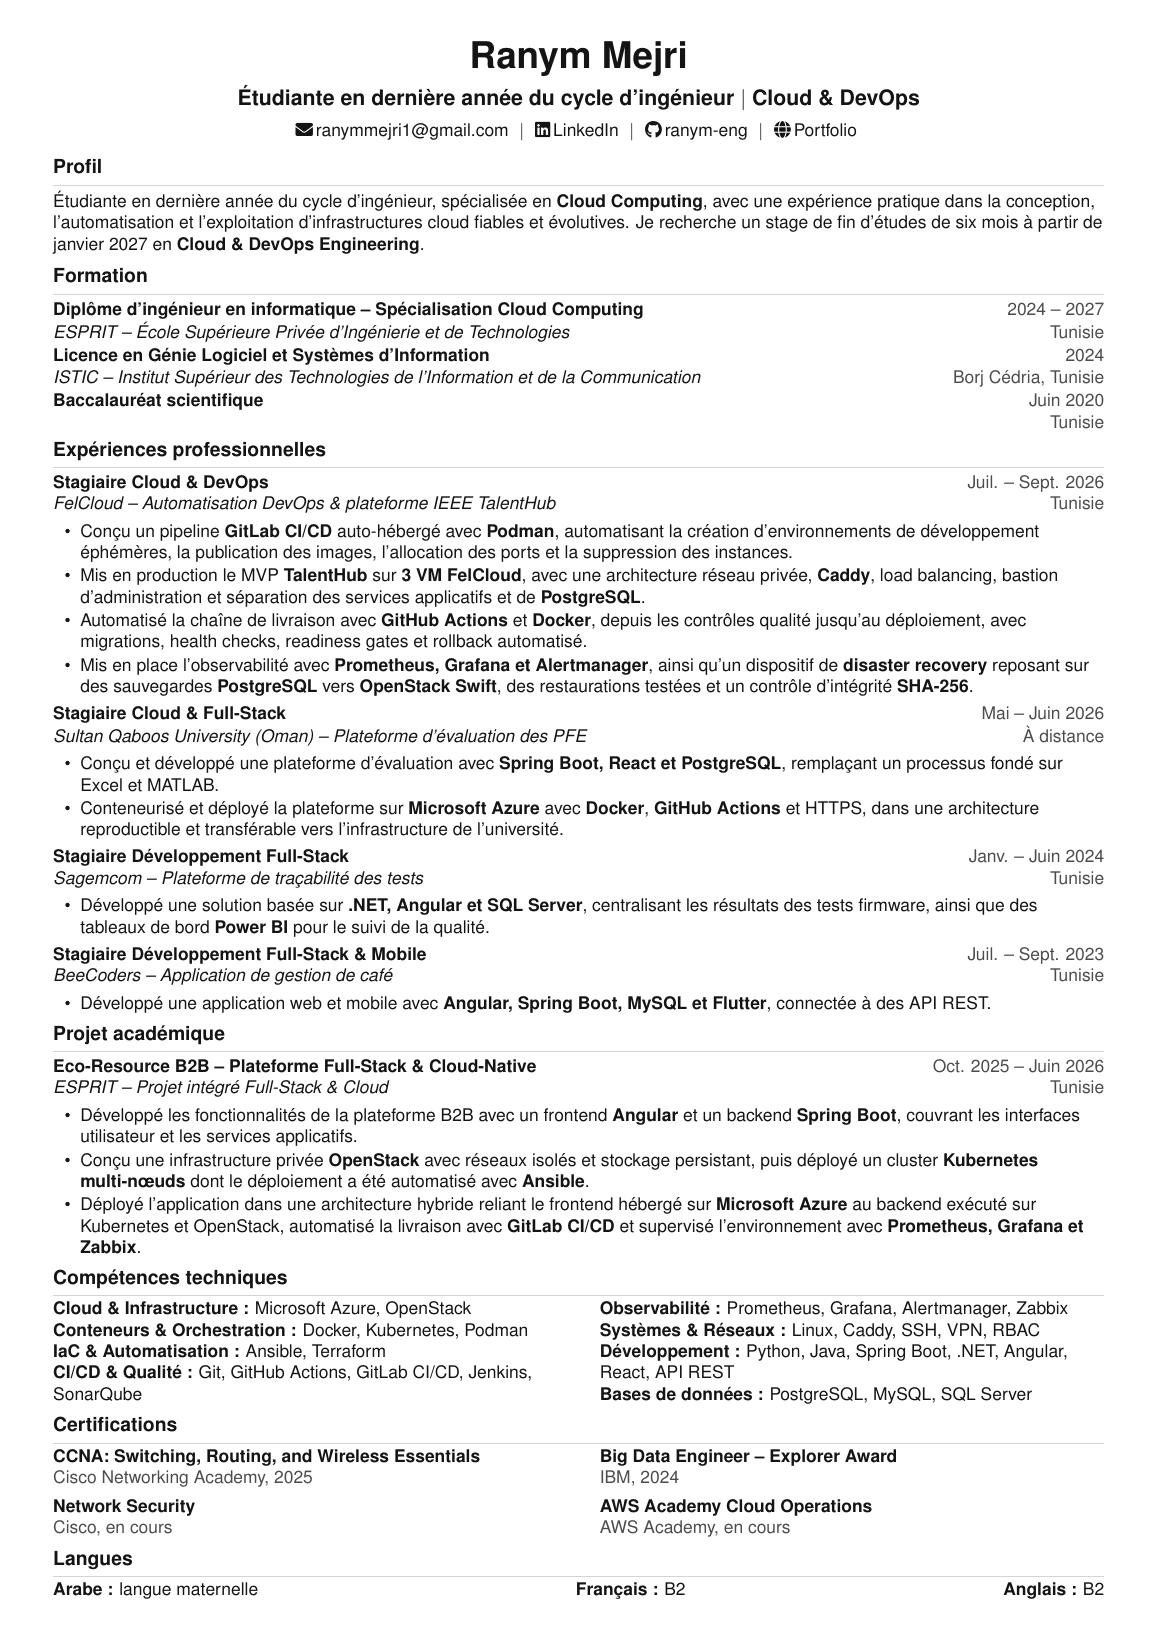
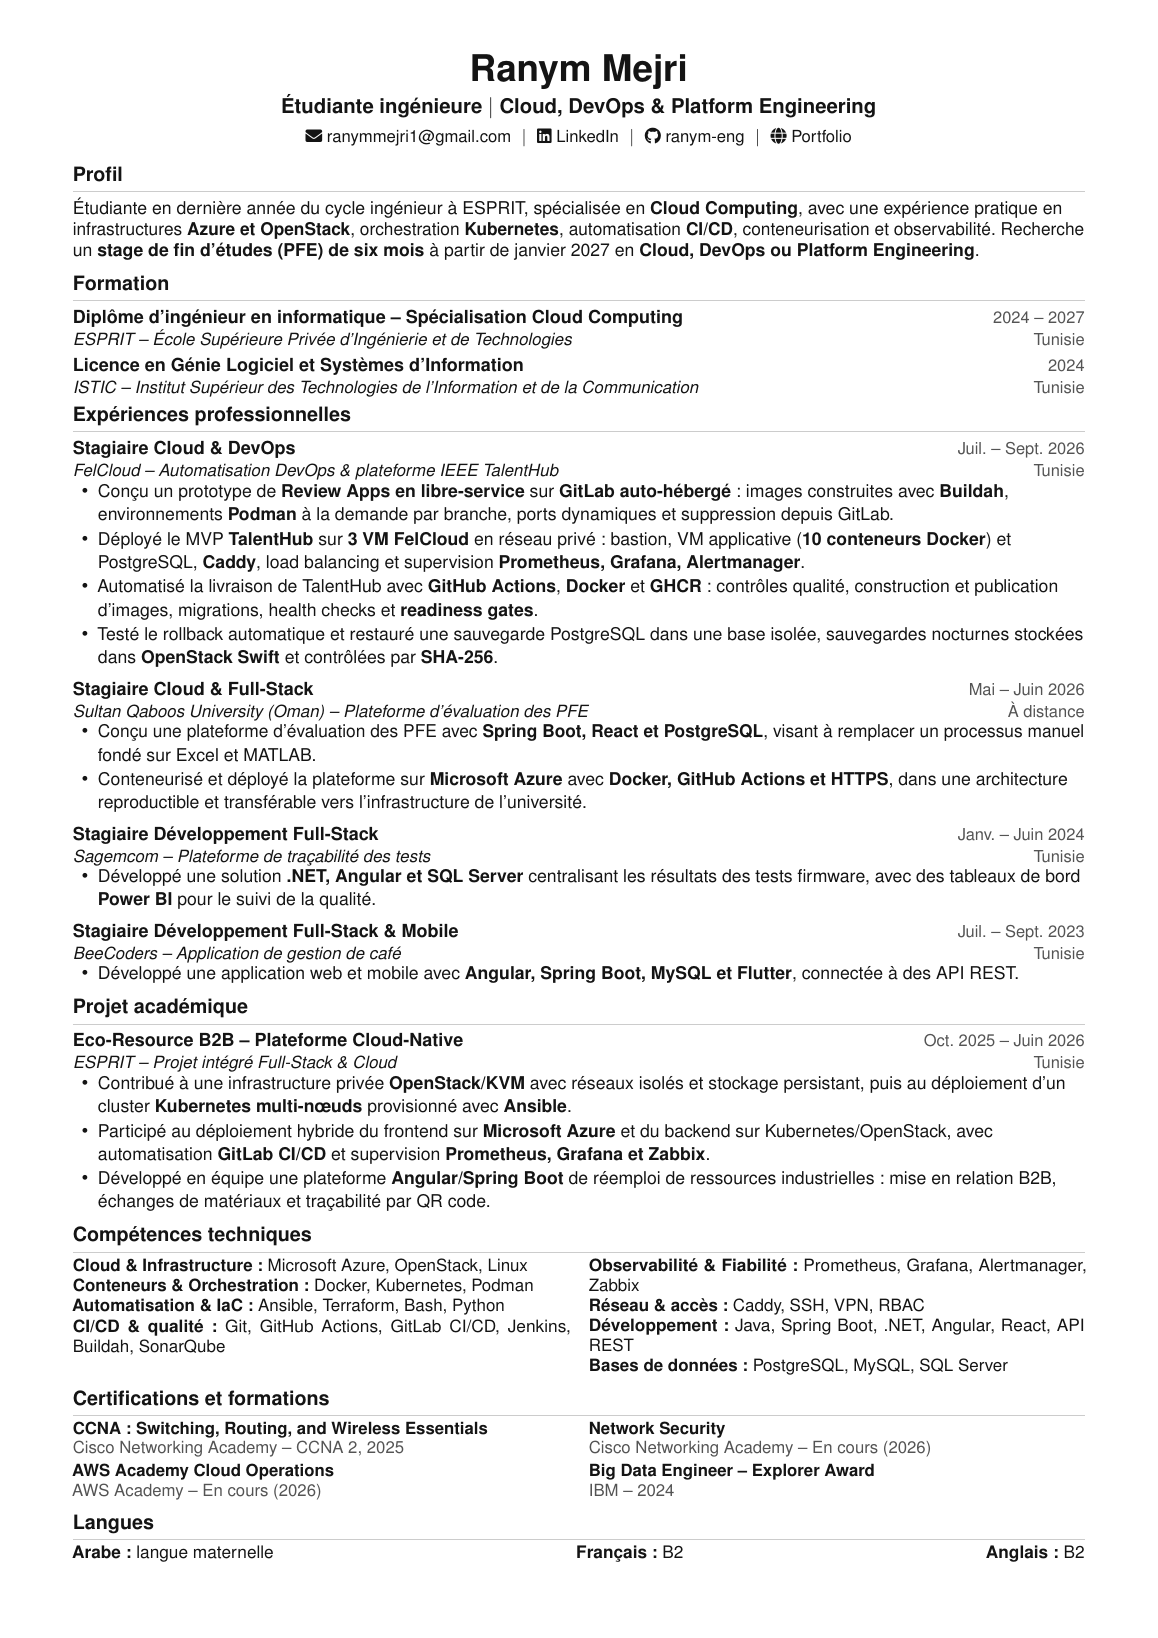
Update portfolio CV to latest version

Changed region(s): [[0.0311, 0.0311, 0.9637, 0.9963], [0.8394, 0.9341, 0.9326, 0.9963]]

diff --git a/resume.html b/resume.html
@@ -56,8 +56,8 @@
       <div class="container resume-document" data-aos="fade-up" data-aos-delay="100">
         <div class="resume-document-viewer" data-resume-viewer tabindex="0" aria-label="Ranym Mejri CV preview">
           <div class="resume-viewer-stage">
-            <img class="active" src="assets/img/ranym/cv-document-page-1.png?v=20261007" alt="Ranym Mejri CV - French page" data-resume-page>
-            <img src="assets/img/ranym/cv-document-page-2.png?v=20261007" alt="Ranym Mejri CV - English page" data-resume-page>
+            <img class="active" src="assets/img/ranym/cv-document-page-1.png?v=20261015" alt="Ranym Mejri CV - French page" data-resume-page>
+            <img src="assets/img/ranym/cv-document-page-2.png?v=20261015" alt="Ranym Mejri CV - English page" data-resume-page>
           </div>
           <div class="resume-viewer-footer">
             <div class="resume-viewer-pagination">
@@ -66,8 +66,8 @@
               <button type="button" data-resume-next aria-label="Next CV page" title="Next page"><i class="bi bi-chevron-right"></i></button>
             </div>
             <div class="resume-viewer-actions">
-              <a href="assets/files/CV_Ranym_Mejri_FR_EN.pdf?v=20261007" download aria-label="Download CV" title="Download CV"><i class="bi bi-download"></i></a>
-              <a href="assets/files/CV_Ranym_Mejri_FR_EN.pdf?v=20261007" target="_blank" rel="noopener noreferrer" aria-label="Open full CV" title="Open full CV"><i class="bi bi-box-arrow-up-right"></i></a>
+              <a href="assets/files/CV_Ranym_Mejri_FR_EN.pdf?v=20261015" download aria-label="Download CV" title="Download CV"><i class="bi bi-download"></i></a>
+              <a href="assets/files/CV_Ranym_Mejri_FR_EN.pdf?v=20261015" target="_blank" rel="noopener noreferrer" aria-label="Open full CV" title="Open full CV"><i class="bi bi-box-arrow-up-right"></i></a>
               <button type="button" data-resume-fullscreen aria-label="Open fullscreen" title="Fullscreen"><i class="bi bi-arrows-fullscreen"></i></button>
             </div>
           </div>
@@ -88,7 +88,7 @@
                 <li><i class="bi bi-linkedin"></i> <a href="https://linkedin.com/in/ranym-mejri-b42968238" target="_blank" rel="noopener noreferrer">LinkedIn</a></li>
                 <li><i class="bi bi-globe2"></i> <a href="index.html">Portfolio</a></li>
               </ul>
-              <a class="resume-download" href="assets/files/CV_Ranym_Mejri_FR_EN.pdf?v=20261007" target="_blank" rel="noopener noreferrer"><i class="bi bi-file-earmark-arrow-down"></i> Download CV</a>
+              <a class="resume-download" href="assets/files/CV_Ranym_Mejri_FR_EN.pdf?v=20261015" target="_blank" rel="noopener noreferrer"><i class="bi bi-file-earmark-arrow-down"></i> Download CV</a>
             </div>
 
             <h3 class="resume-title">Education</h3>

diff --git a/contact.html b/contact.html
@@ -82,7 +82,7 @@
               <p>For Cloud, DevOps or Platform Engineering opportunities, contact me by email or through LinkedIn.</p>
               <div class="contact-actions">
                 <a class="btn-contact" href="mailto:ranymmejri1@gmail.com"><i class="bi bi-envelope"></i> Email Me</a>
-                <a class="btn-contact" href="assets/files/CV_Ranym_Mejri_FR_EN.pdf?v=20261007" target="_blank" rel="noopener noreferrer"><i class="bi bi-file-earmark-person"></i> View CV</a>
+                <a class="btn-contact" href="assets/files/CV_Ranym_Mejri_FR_EN.pdf?v=20261015" target="_blank" rel="noopener noreferrer"><i class="bi bi-file-earmark-person"></i> View CV</a>
                 <a class="btn-contact" href="https://github.com/ranym-eng" target="_blank" rel="noopener noreferrer"><i class="bi bi-github"></i> GitHub</a>
               </div>
             </div>

diff --git a/about.html b/about.html
@@ -81,7 +81,7 @@
 
           <div class="about-profile-actions">
             <a class="about-profile-primary" href="portfolio.html"><i class="bi bi-grid"></i> View Projects</a>
-            <a href="assets/files/CV_Ranym_Mejri_FR_EN.pdf?v=20261007" target="_blank" rel="noopener noreferrer"><i class="bi bi-file-earmark-person"></i> View CV</a>
+            <a href="assets/files/CV_Ranym_Mejri_FR_EN.pdf?v=20261015" target="_blank" rel="noopener noreferrer"><i class="bi bi-file-earmark-person"></i> View CV</a>
           </div>
         </div>
       </div>
